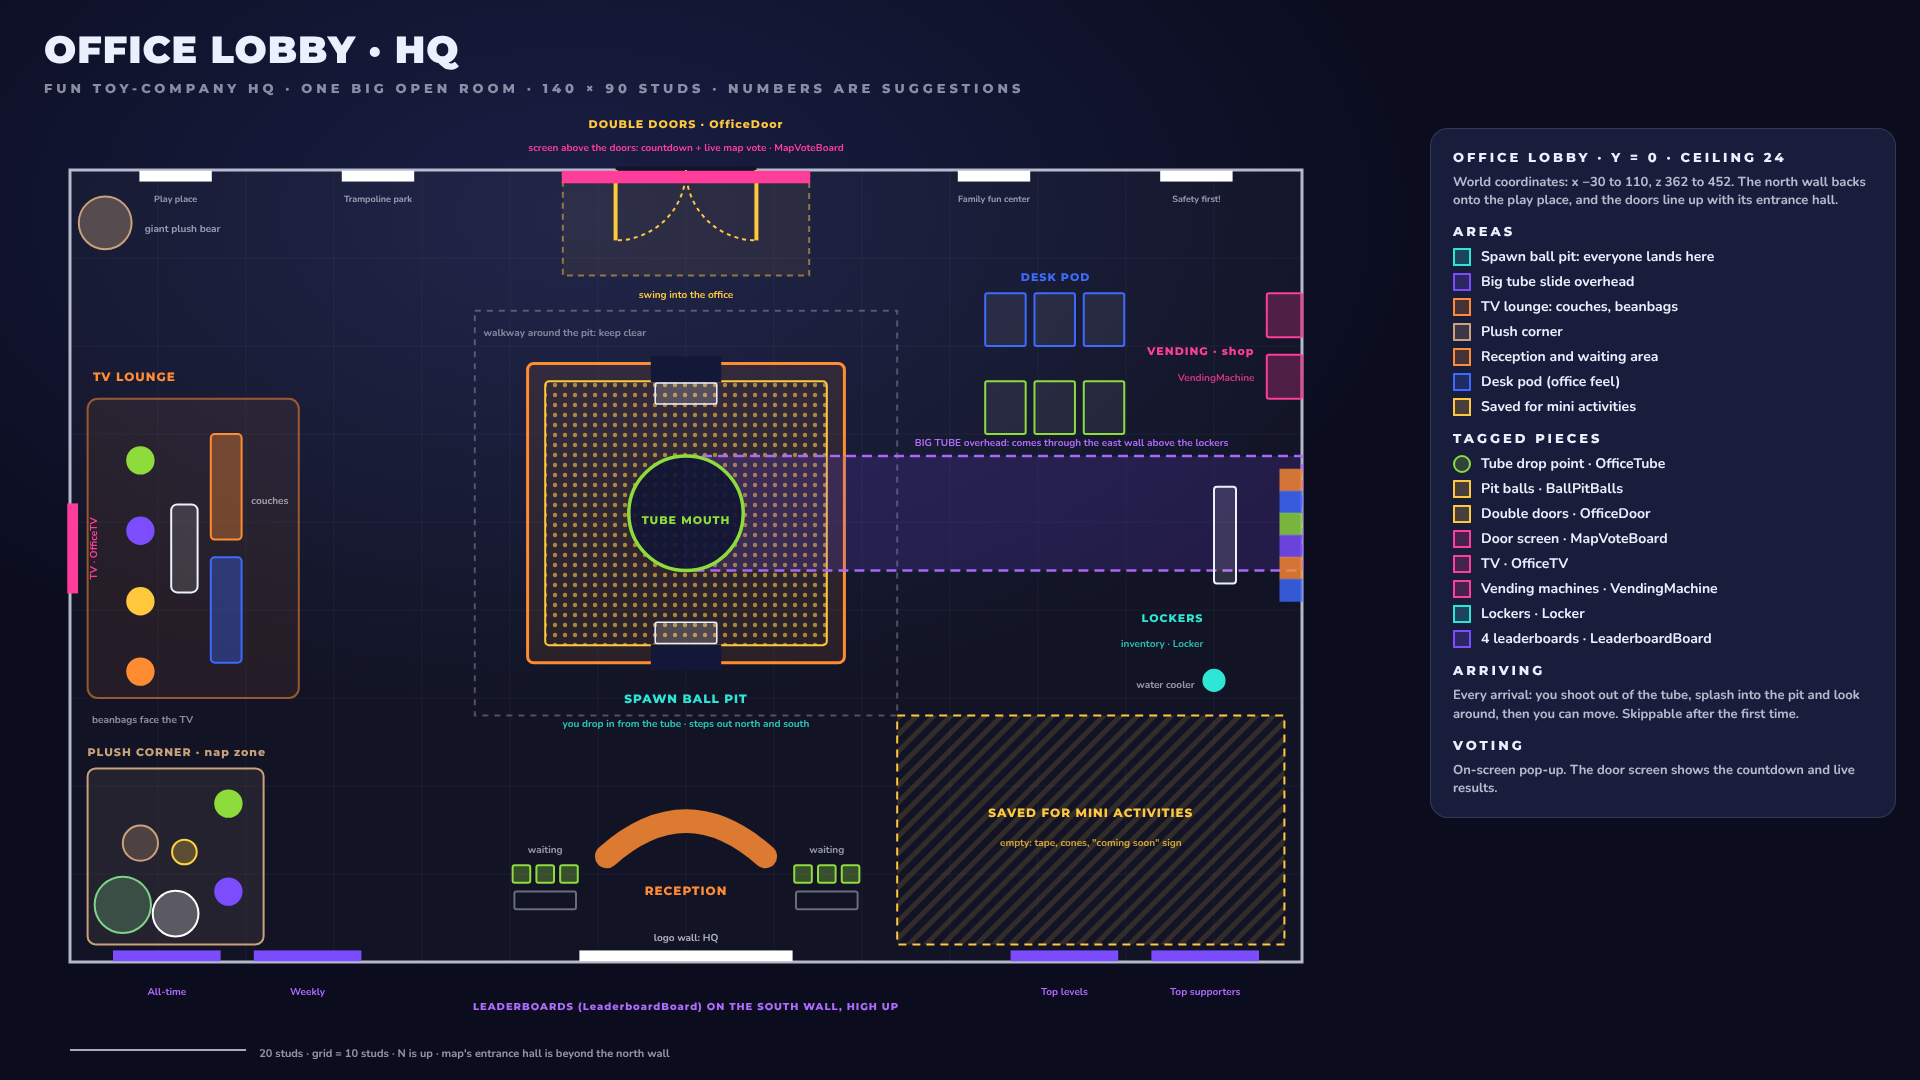
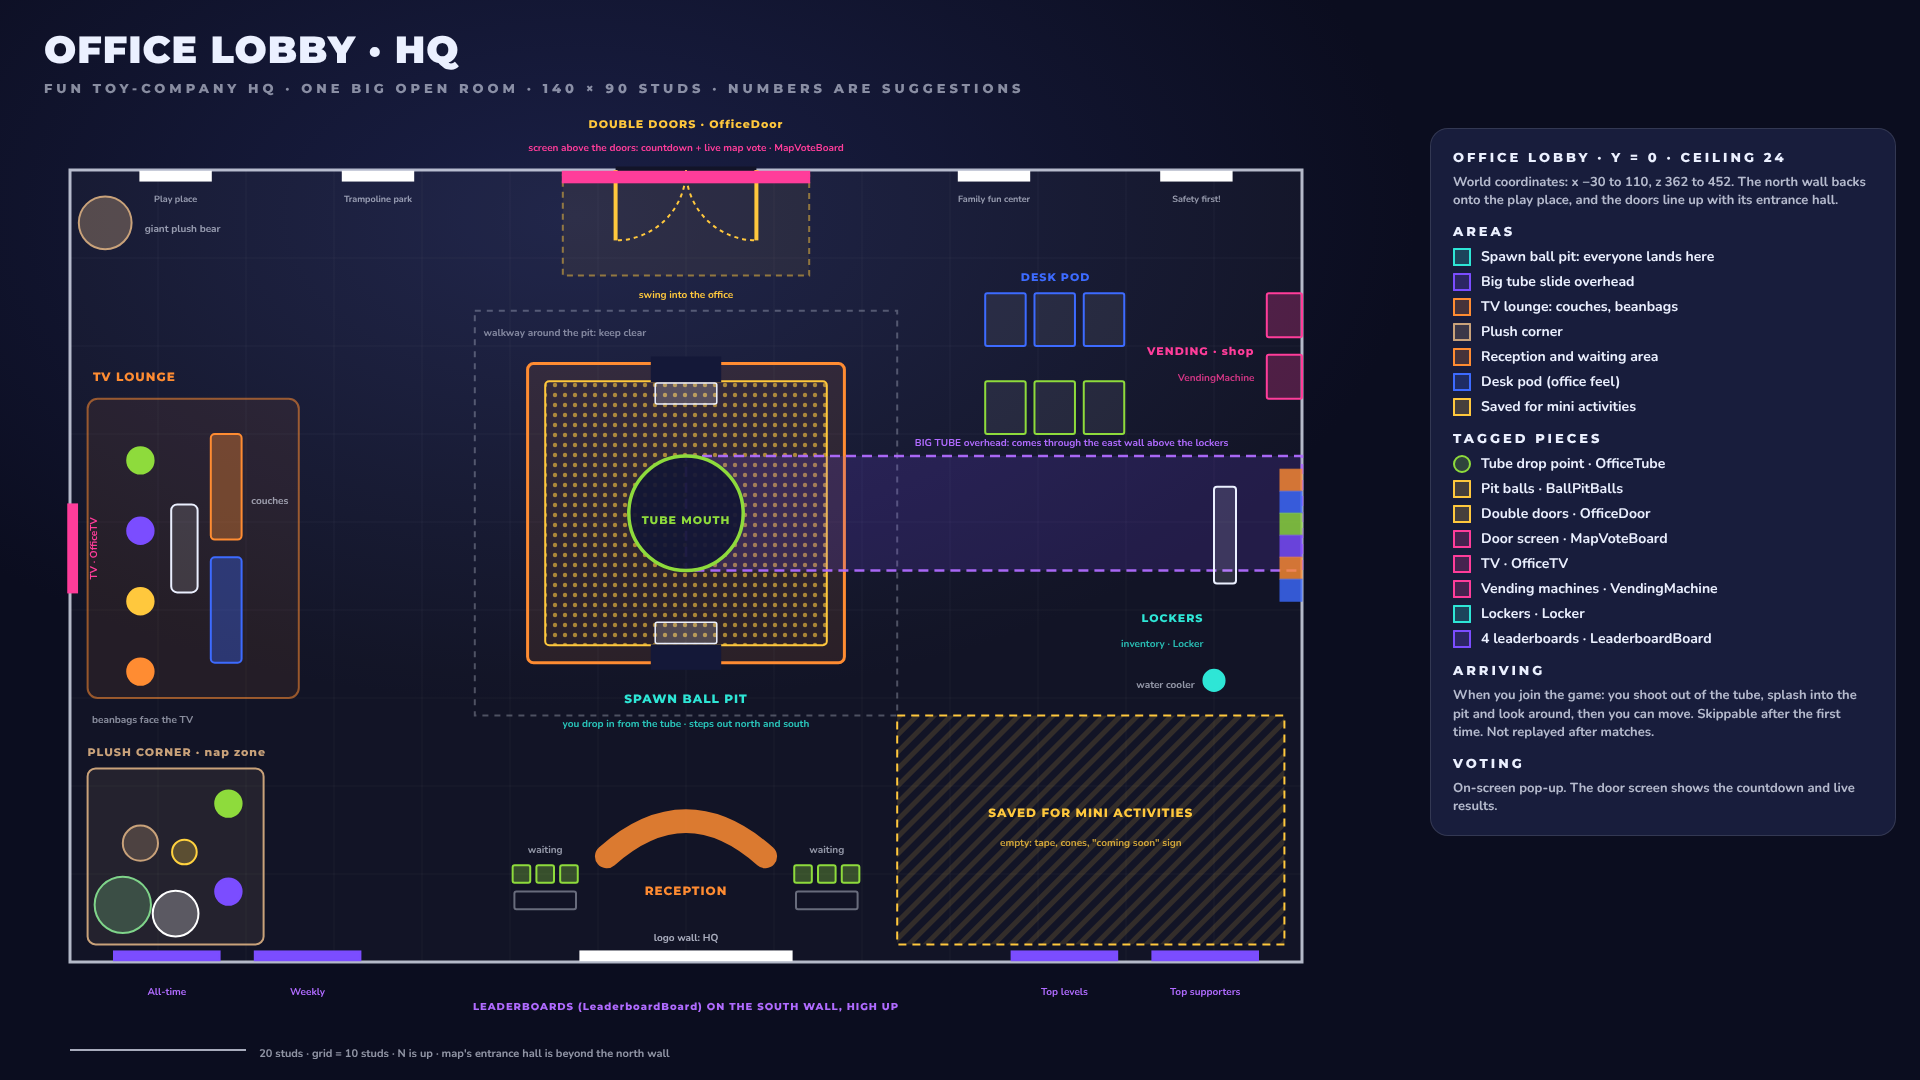
Only play the tube intro when a player joins the server
Returning to the office after a match no longer replays the tube drop or
fades to black. The owner has their own idea for that transition, so both
docs now say to ask them before building it.

Claude-Session: https://claude.ai/code/session_015tY4PgXudsWvih9vAot5cc

Changed region(s): [[0.75, 0.6417, 1.0, 0.7944]]

diff --git a/GG.md b/GG.md
@@ -915,11 +915,14 @@ that runs the play places**. Picture: `docs/maps/office.png`.
 - **Voting happens on screen.** The map vote is a pop-up (Part 6); the big
   screen over the doors only shows the countdown and the live results.
   There's nothing to walk up to for voting.
-- **You arrive by tube.** Every time players arrive (joining, or coming
-  back after a match), they drop out of a **giant tube slide** in the
-  ceiling into a **big ball pit** in the middle of the room, with a short
-  landing cutscene (`docs/GAME_DESIGN.md`, "Arriving in the office"). Then
-  they can wade around, look around and climb out.
+- **You arrive by tube.** Every time a player **joins the server**, they
+  drop out of a **giant tube slide** in the ceiling into a **big ball pit**
+  in the middle of the room, with a short landing cutscene
+  (`docs/GAME_DESIGN.md`, "Arriving in the office"). Then they can wade
+  around, look around and climb out.
+- **Coming back after a match is different:** no tube drop and no fade to
+  black. The owner has their own idea for that transition and will explain
+  it. **Ask the owner before building anything for it.**
 - **No brand or mascot.** The company and game names are still parked, so
   signs say **"HQ"** for now.
 
@@ -1193,7 +1196,7 @@ make the buttons work.
 | `SeekerBlind` | No mockup yet; use the Bonked style | Full black background, `Countdown`, `RoleBanner`, `Tip` |
 | `MenuButtons` | `menu-buttons.png` | `Shop`, `Inventory`, `Quests`, `Settings` (each with `Icon`, `Label`, `Badge`), `Tooltip` |
 | `Intermission` | `menu-buttons.png` (top center) | `TimeText`, `Label`, `Bar` (`Fill`, `MapVoteMarker`, `MapVoteLabel`) |
-| `TubeIntro` | No mockup: a small slanted glass button in the bottom-right corner, styled like the walk-up prompt's key block | The office arrival cutscene: `Fade` (a full-screen black Frame), `Skip` (a button with `KeyHint` and `Label` "SKIP") |
+| `TubeIntro` | No mockup: a small slanted glass button in the bottom-right corner, styled like the walk-up prompt's key block | The arrival cutscene when a player joins: `Skip` (a button with `KeyHint` and `Label` "SKIP") |
 | `MapVote` | No mockup yet: same style as the mode vote at the bottom of `results.png`, one bigger card per map with a picture | The pop-up for the map vote in the office's last 15 seconds: `Header` (`Title`, `Timer`), template `MapOption` (`Thumbnail`, `MapName`, `Votes`, `YourVote`) |
 | `Prompt` | `menu-buttons.png` (walk-up prompt) | Template for a custom ProximityPrompt: `KeyBlock` (`Key`, `HoldText`), `Panel` (`Icon`, `ActionText`, `ObjectText`), `HoldBar` (`Fill`), `Line`, `Diamond` |
 | `PlayerList` | `player-list.png` | `Header` (`Count`), `List` (template `PlayerRow` with `Banner`, `Avatar`, `PlayerName`, `Title`, `Level`, `Prestige`, `RoleDot`), `Footer` |

diff --git a/docs/GAME_DESIGN.md b/docs/GAME_DESIGN.md
@@ -90,9 +90,12 @@ The office has:
 
 ### Arriving in the office
 
-- **Every time players arrive in the office** (first join, late join, and
-  coming back after every match), they **drop out of the big tube** in the
-  ceiling **into the spawn ball pit**.
+- **Every time a player joins the server** (including rejoining and late
+  joining), they **drop out of the big tube** in the ceiling **into the
+  spawn ball pit**.
+- **Coming back to the office after a match does not replay it.** No tube
+  drop and **no fade to black**: the owner has their own idea for that
+  transition and will explain it. Ask the owner before building it.
 - **Landing cutscene**, about 4 seconds **(suggested)**, with a third-person
   follow camera:
   1. A whoosh in the tube, then you **shoot out of its mouth**; the camera
@@ -105,10 +108,6 @@ The office has:
   that, a **Skip** button (or any key, tap or controller button) jumps
   straight to standing in the pit with full control. The game remembers
   that you've seen it.
-- **Coming back after a match:** the screen fades to black on the map, then
-  players drop in **one after another about 0.2 seconds apart**
-  **(suggested)**, from random spots in the tube's mouth, so a stream of
-  players pours into the pit. Each player sees their own landing.
 - After landing, players can **wade around, look around, or climb out**
   (steps on two sides, or jump over the padded edge). The pit has real
   moving balls like the play place, but **no hiding gameplay**. No fall
@@ -851,6 +850,8 @@ Work one milestone at a time; the owner tests in Studio before the next.
 - Real prices for items, passes, coin packs and the launch bundle.
 - Details for later modes (dodgeball, prop hunt, tag, hot potato).
 - Which emotes and animations.
+- How players get back to the office after a match (the owner has an idea
+  and will explain it).
 
 ## 18. Settings menu
 
